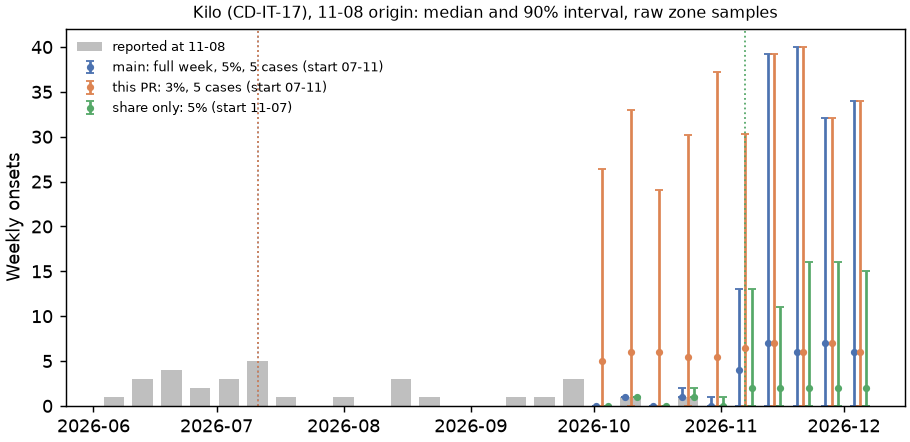
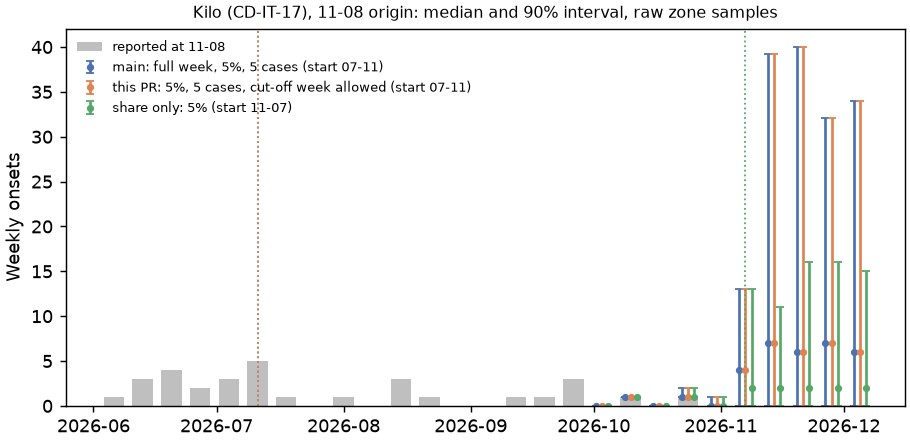
Redraw the Kilo plot for #150 as it now stands

Changed region(s): [[0.6462, 0.1765, 0.8, 0.9118], [0.2769, 0.1765, 0.5231, 0.2059]]

diff --git a/evidence/rwnc-start-weeks-2026-11-08/kilo_plot.py b/evidence/rwnc-start-weeks-2026-11-08/kilo_plot.py
@@ -4,7 +4,7 @@ S = "/tmp/claude-1000/-home-seabbs-code-seabbs-BDBVHubRenewal/54f1e2de-e074-4f63
 c, name, out = sys.argv[1], sys.argv[2], sys.argv[3]
 z = json.load(open(f"{S}/zcounts.json"))
 w = pd.to_datetime(z["weeks"]); y = z["places"][c]["reported"]
-runs = [("main: full week, 5%, 5 cases", "z_rwnc-base.csv", "#4C72B0"), ("this PR: 3%, 5 cases", "z_c5_0.03.csv", "#DD8452"), ("share only: 5%", "z_nowcast-5pct.csv", "#55A868")]
+runs = [("main: full week, 5%, 5 cases", "z_rwnc-base.csv", "#4C72B0"), ("this PR: 5%, 5 cases, cut-off week allowed", "z_b6.csv", "#DD8452"), ("share only: 5%", "z_nowcast-5pct.csv", "#55A868")]
 fig, ax = plt.subplots(figsize=(7, 3.4), layout="constrained")
 keep = w >= pd.Timestamp("2026-06-01")
 ax.bar(w[keep], pd.Series(y)[keep], width=5, color="0.75", label="reported at 11-08")
